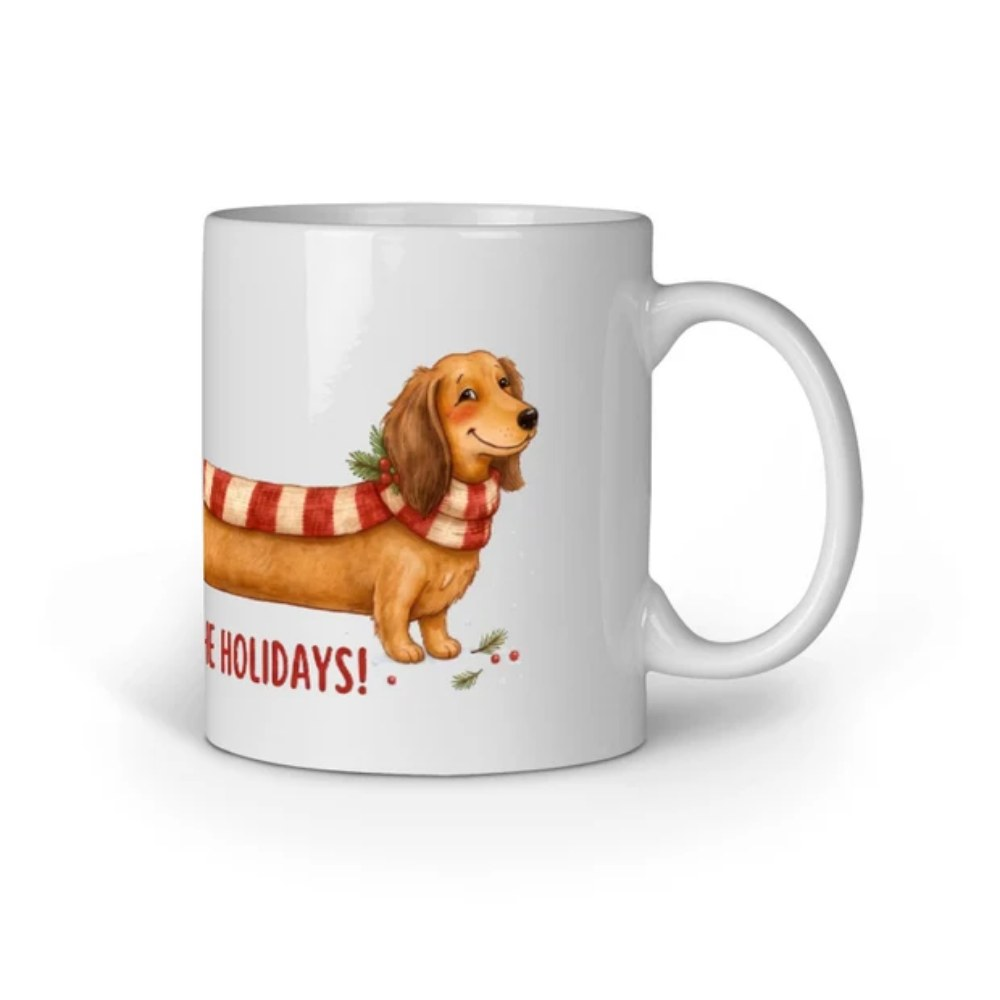
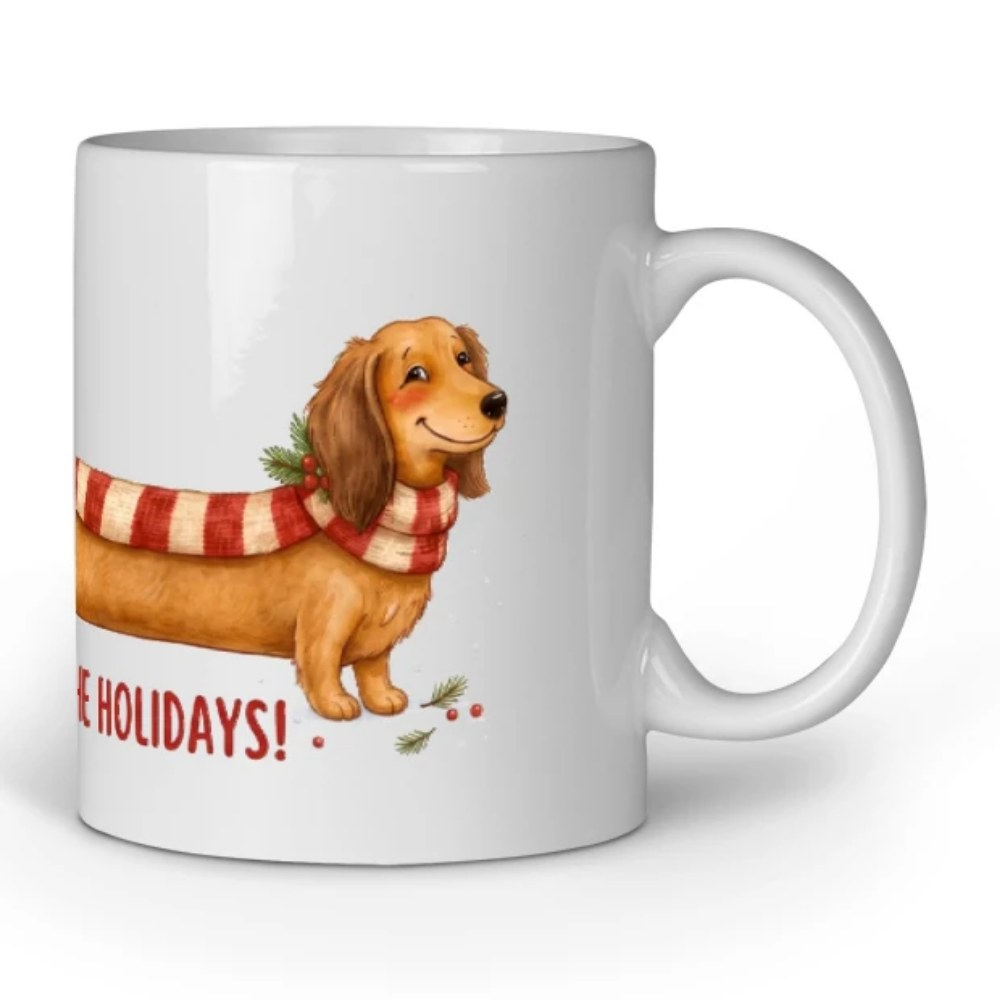
Dachshund mug: crop Printrove mock-ups to the standard framing so handle/inside colours line up; add_mug.py now crops instead of resizing
Claude-Session: https://claude.ai/code/session_01EaxmJeYfT8MoGaNTYhuNX2

diff --git a/_build/add_mug.py b/_build/add_mug.py
@@ -6,15 +6,19 @@ import sys, os
 from PIL import Image
 HERE = os.path.dirname(os.path.abspath(__file__))
 sys.path.insert(0, HERE)
-from mug_printrove import watermark, register_watermarked
+from mug_printrove import watermark, register_watermarked, MUG_CENTRE, CROP
 
 slug, pr, front, back = sys.argv[1:5]
 out = os.path.join(HERE, "realmugs", slug)
 def rgb(p):
     im = Image.open(p).convert("RGBA"); bg = Image.new("RGBA", im.size, "white")
     return Image.alpha_composite(bg, im).convert("RGB")
-rgb(front).resize((620, 620), Image.LANCZOS).save(out + "-a.webp", "WEBP", quality=88, method=6)
-rgb(back).resize((620, 620), Image.LANCZOS).save(out + "-b.webp", "WEBP", quality=88, method=6)
+def crop(p, view):   # same framing as every other mug, so the handle/inside colour layers line up (never resize)
+    im = rgb(p); assert im.size == (800, 800), "expected Printrove's 800x800 mock-up"
+    cx, cy = MUG_CENTRE[view]; x0, y0 = round(cx - CROP / 2), round(cy - CROP / 2)
+    return im.crop((x0, y0, x0 + CROP, y0 + CROP))
+crop(front, "a").save(out + "-a.webp", "WEBP", quality=90, method=6)
+crop(back, "b").save(out + "-b.webp", "WEBP", quality=90, method=6)
 p = rgb(pr); p.save(out + "-print.png", dpi=(300, 300))
 flat = p.copy(); flat.thumbnail((1000, 500), Image.LANCZOS)
 watermark(flat).save(out + "-flat.webp", "WEBP", quality=80, method=6)

diff --git a/_build/README.md b/_build/README.md
@@ -3,7 +3,7 @@
 ## THE RULES (never skip, never forget)
 1. **Every public design image is watermarked.** New mugs are added only with `add_mug.py` (or `mug_printrove.py`), which watermark the design preview and register it in `watermarked.json`. `build.sh` refuses to publish if any mug design preview is not registered. Never make or copy design images by hand.
 2. **Print files and full-size artwork never go public.** `*-print.png` and `realmugs/` stay git-ignored; public images are screen-sized (max 1200×1600).
-3. **Mug artwork stays exactly as uploaded to Printrove.** Prefer Printrove's own mock-ups for the product photos.
+3. **Mug artwork stays exactly as uploaded to Printrove.** Prefer Printrove's own mock-ups for the product photos, cropped (never resized) to the same framing as every other mug, or the handle/inside colour options won't line up. `add_mug.py` does this. After adding a mug, check it with a coloured handle (e.g. Red).
 4. **Never mention AI, the supplier, or where/how products are made.** No fake reviews.
 5. **Always pull the repo and copy `_build` first** (other sessions may have changed it), then build with `build.sh` and copy only changed files.
 6. **Don't change prices, descriptions, checkout or Razorpay** without the owner's approval.
